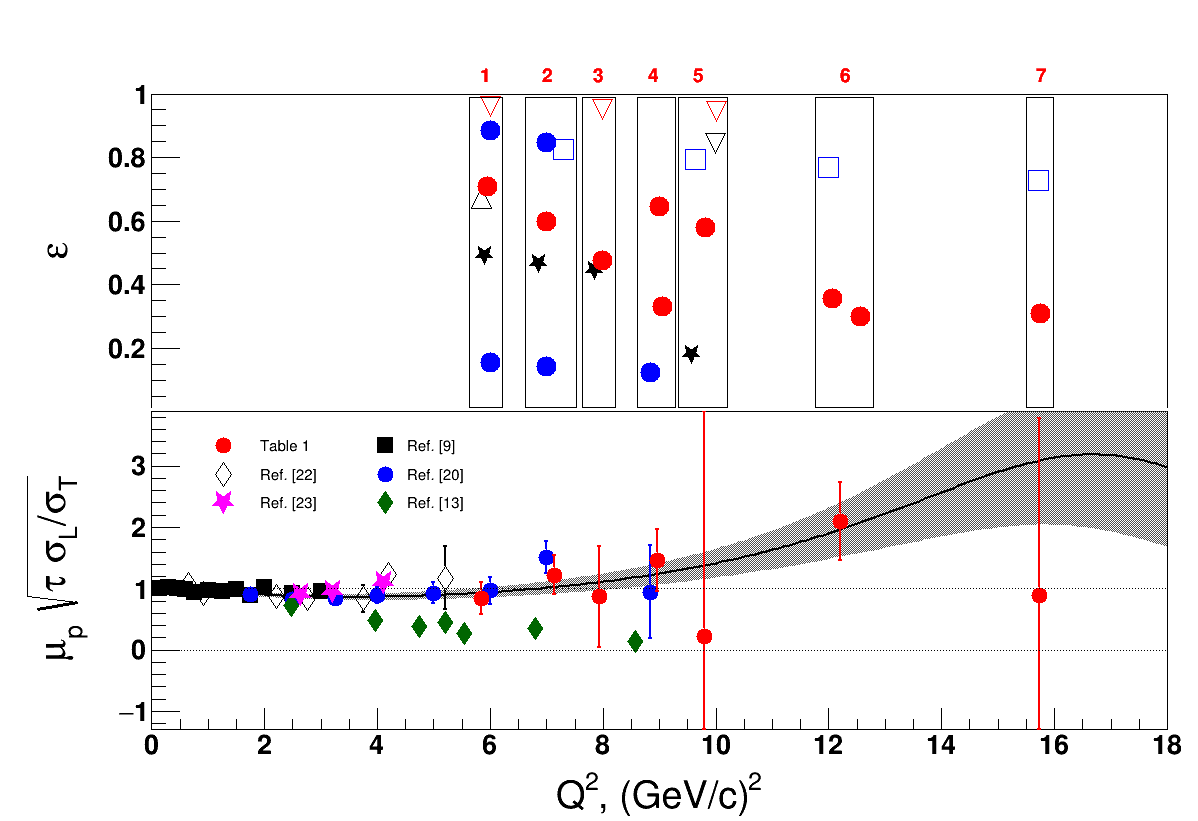
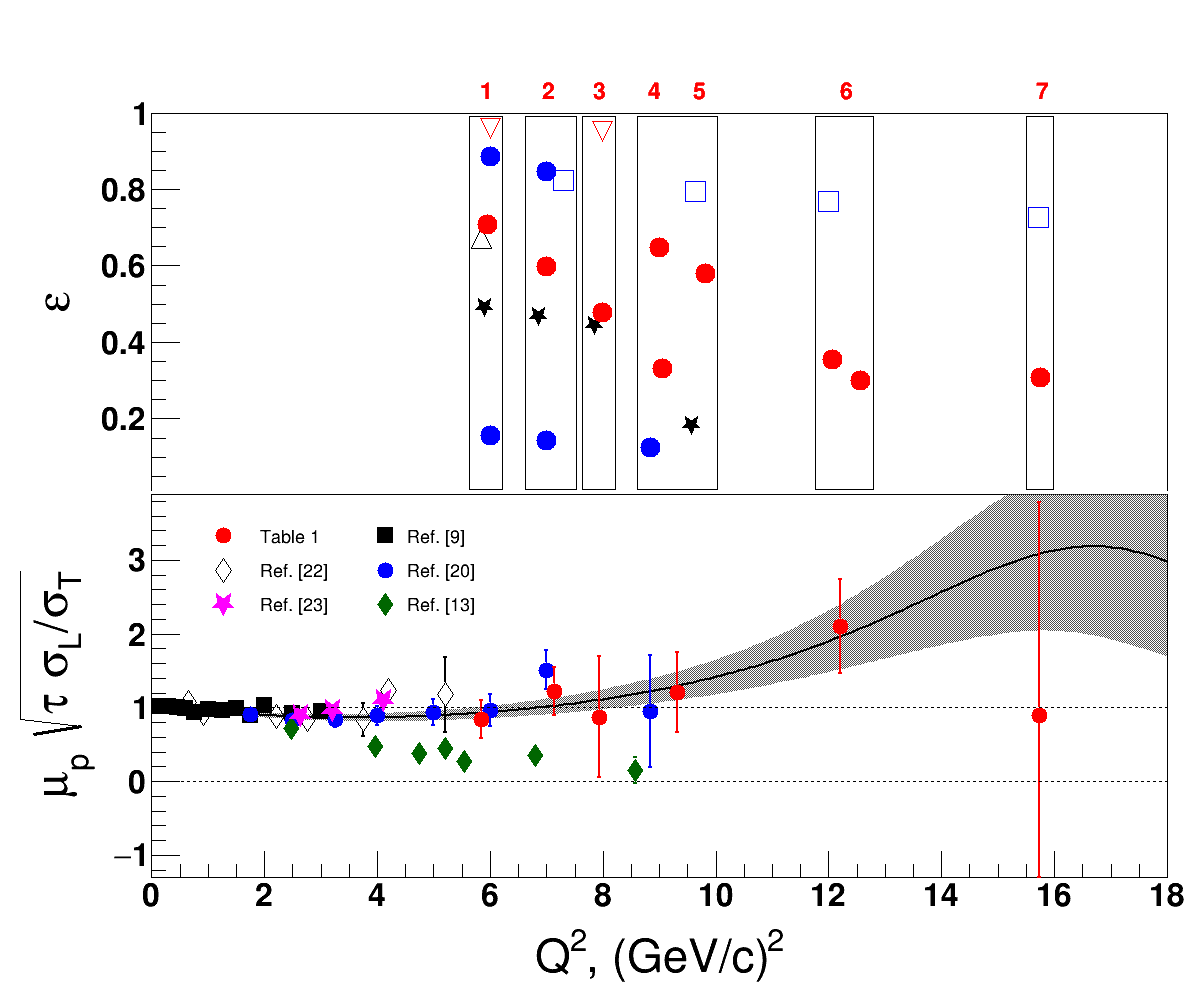
Removed 10 GeV2

diff --git a/sig_Ep.C b/sig_Ep.C
@@ -223,8 +223,9 @@ double ax_offx = 1.0;
     }
  //   if(/*k!=2 &&k!=4 &&k!=3*/){
 
-      //b[k] = new TBox(mn[k]-0.16,0.08,mx[k]+0.16,0.99);
+     // b[k] = new TBox(mn[k]-0.16,0.08,mx[k]+0.16,0.99);
       b[k] = new TBox(mn[k]-0.22,0.015,mx[k]+0.22,0.99);
+    // b[k] = new TBox(mn[k]-0.1,0.015,mx[k]+0.1,0.99);
       b[k]->SetFillColor(3);
       b[k]->SetLineColor(0+1);
       b[k]->SetFillStyle(0);
@@ -264,14 +265,14 @@ double ax_offx = 1.0;
     tex->SetLineWidth(2);
     tex->Draw();
 
-    TPaveText *t11 = new TPaveText(0.15,0.08,0.2,0.76,"NDC");
+ /*   TPaveText *t11 = new TPaveText(0.15,0.08,0.2,0.76,"NDC");
     t11->AddText(" ");
     t11->SetShadowColor(0);
     t11->SetFillColor(0);
     t11->SetTextSize(0.04);
     t11->SetBorderSize(0);
     t11->Draw("same");
-
+*/
   }
 
 	const  Int_t mk = 331;
@@ -306,7 +307,7 @@ double ax_offx = 1.0;
 	const  Int_t m2 = 12;
 	const  Int_t m3 = 8;
 	const  Int_t m4 = 7;
-	const  Int_t m5 = 7;
+	const  Int_t m5 = 6;
 	const  Int_t m7 = 3;
 
 	double Q21[m1],ge_gm1[m1], ege_gm1[m1], a1_max[m1]=0.,a1_min[m1]=0.;
